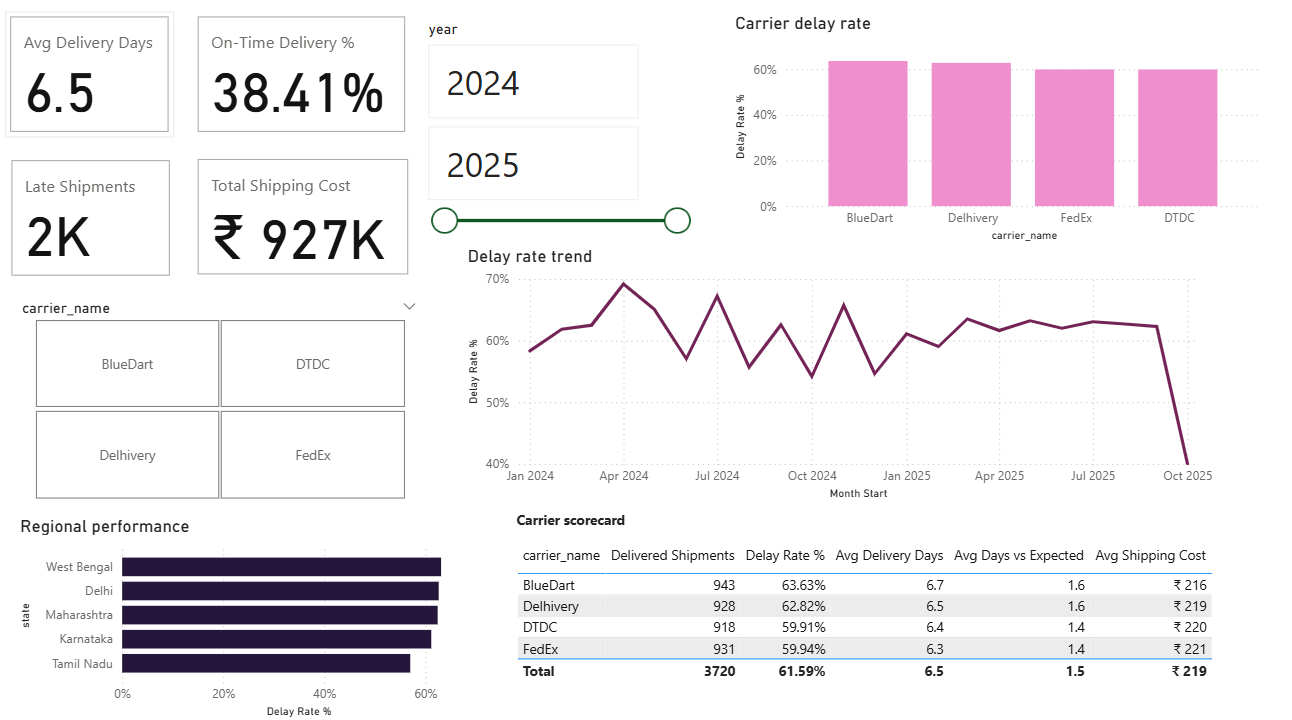
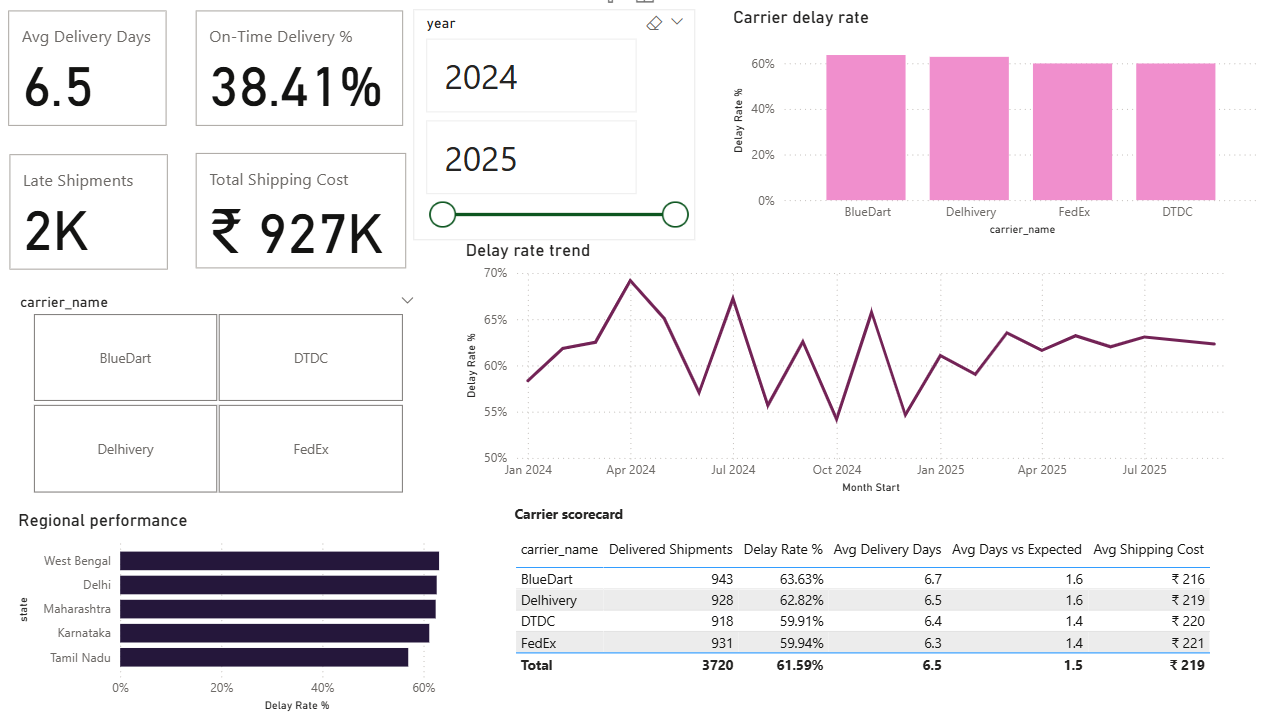
Stage 9A: README, data dictionary, pipeline docs and reproducible setup

diff --git a/README.md b/README.md
@@ -1,0 +1,105 @@
+# SupplyChain360
+
+End-to-end supply chain data engineering and analytics platform. Raw files go in; a tested star schema and a four-page Power BI dashboard come out, orchestrated daily by Airflow.
+
+> The goal is not only to analyze supply-chain data, but to engineer the platform that makes the analysis trustworthy.
+
+## What it does
+
+SupplyChain360 simulates how a company collects data from suppliers, warehouses, inventory systems, customers, orders and carriers. Python lands the raw data in a data lake, PySpark cleans it and quarantines bad records, dbt builds and tests a dimensional model in PostgreSQL, and Power BI turns it into business insight. Everything runs in Docker and is scheduled by Airflow.
+
+## Architecture
+
+```mermaid
+flowchart LR
+    S["CSV and JSON sources"] --> I["Python ingestion"]
+    I --> B[("Bronze<br/>raw Parquet in MinIO")]
+    B --> P["PySpark<br/>clean, dedupe, validate"]
+    P --> SV[("Silver<br/>clean Parquet")]
+    P --> Q[("Quarantine<br/>rejected rows")]
+    SV --> PG[("PostgreSQL<br/>silver schema")]
+    PG --> D["dbt<br/>staging, intermediate, gold"]
+    D --> G[("Gold star schema")]
+    D --> A["Alerts and<br/>quality scorecard"]
+    G --> BI["Power BI dashboard"]
+    G --> NB["Jupyter analysis"]
+```
+
+Airflow runs the flow every day at 06:00 UTC:
+`ingest_to_bronze → bronze_to_silver → silver_to_postgres → quality_to_postgres → dbt_build → alert_summary → dbt_docs`
+
+## Tech stack
+
+| Component | Technology |
+|---|---|
+| Language | Python |
+| Orchestration | Apache Airflow 3 |
+| Processing | PySpark 3.5 (local mode) |
+| Data lake | MinIO (S3 compatible), Parquet |
+| Warehouse | PostgreSQL 16, star schema |
+| Transformation and tests | dbt Core 1.11 |
+| Analysis | Jupyter Notebook |
+| Visualization | Power BI |
+| Containers | Docker Compose |
+
+## Dashboard
+
+![Executive overview](docs/dashboard_executive.png)
+![Inventory and warehouse](docs/dashboard_inventory.png)
+![Logistics](docs/dashboard_logistics.png)
+![Supplier performance](docs/dashboard_supplier.png)
+
+## Results from the sample data
+
+- 4,570 completed or open orders, 500 customers and ₹49.68M revenue (cancelled orders excluded)
+- On-time delivery of 38.4%; average delivery takes 6.5 days
+- 66 low-stock alerts, one stockout, and 7 suppliers rated below the 3.5 threshold
+- 35 bad records quarantined and 20 duplicate orders removed, with every row reconciled
+
+## Data quality
+
+Bad data is caught at three levels and never silently dropped:
+
+1. **Spark** validates each table. Duplicates are removed and counted. Invalid rows (missing customer, negative quantity, delivery before shipment) go to quarantine with the failed rule attached, so one bad row never blocks 5,000 good ones.
+2. **dbt** runs 70+ tests: unique, not null, relationships, accepted values, business rules and a row-count reconciliation (raw = duplicates + silver + quarantine). Known problems, such as order lines of quarantined orders, are warnings; lost rows fail the build.
+3. **Airflow** retries failed tasks twice and records any final failure in `quality.pipeline_failures`.
+
+Business alerts (low stock, late delivery, weak suppliers) are dbt models in the `alerts` schema. Thresholds live in `dbt/dbt_project.yml`.
+
+
+## Repository layout
+
+```
+SupplyChain360/
+├── airflow/dags/        the daily pipeline DAG
+├── data/                sample data generator
+├── dbt/                 staging, intermediate, marts, alerts, quality models and tests
+├── docker/              compose file, Airflow image, Postgres setup script
+├── docs/                data dictionary, pipeline guide, dashboard screenshots
+├── ingestion/           Python ingestion into the Bronze layer
+├── notebooks/           business analysis in Jupyter
+├── quality/validation/  alert summary script
+├── spark/               PySpark jobs and shared helpers
+├── warehouse/           hand-built star schema SQL (reference version)
+└── dashboard/           Power BI file
+```
+
+## Design decisions and trade-offs
+
+- **Spark in local mode** inside the Airflow container keeps the whole platform runnable on an 8 GB laptop. The same code moves to a cluster by changing the master URL.
+- **Spark cleans files, dbt models the warehouse.** Each tool does what it is best at.
+- **Idempotent jobs.** Every step overwrites its own output, so retries and reruns are safe.
+- **MinIO via a mirror image.** MinIO's official image is no longer published on Docker Hub, so the project uses a mirror of its last release. Moving to AWS S3 means changing the endpoint and credentials.
+- **Postgres published on port 5433** so it never collides with a Postgres installed on the host.
+- **Hash surrogate keys** (md5 of the business key), so dimensions and facts agree without lookups.
+
+## Known limitations
+
+- The data is generated, so groups differ only slightly (for example, carriers).
+- Profit in `fact_sales` is revenue minus product cost. Shipping cost is not allocated to order lines.
+- Batch only. Power BI is an Import snapshot, so click **Refresh** after a pipeline run.
+
+## Documentation
+
+- [Data dictionary](docs/data_dictionary.md)
+- [Pipeline documentation](docs/pipeline_documentation.md)

diff --git a/pipeline_documentation.md b/pipeline_documentation.md
@@ -1,0 +1,64 @@
+# Pipeline documentation
+
+## Daily flow
+
+The `supplychain360_pipeline` DAG runs at 06:00 UTC. Each task runs one script. Tasks retry twice, one minute apart (`dbt_build` once), and a task that fails for good is recorded in `quality.pipeline_failures`.
+
+| Task | Script | What it does |
+|---|---|---|
+| ingest_to_bronze | `ingestion/ingest_to_bronze.py` | Reads CSV and JSON files, keeps every column as text, adds `_source_file`, `_ingested_at`, `_batch_id`, and writes Parquet to Bronze. |
+| bronze_to_silver | `spark/jobs/bronze_to_silver.py` | Casts types, removes duplicates, applies validation rules, writes good rows to Silver and bad rows to quarantine, and saves run statistics. |
+| silver_to_postgres | `spark/jobs/silver_to_postgres.py` | Loads the Silver tables into the `silver` schema. |
+| quality_to_postgres | `spark/jobs/quality_to_postgres.py` | Loads quarantined rows and run statistics into Postgres. |
+| dbt_build | `dbt build` | Builds staging, intermediate, gold, quality and alerts models and runs every test. |
+| alert_summary | `quality/validation/alert_summary.py` | Prints alert counts by type and severity in the task log. |
+| dbt_docs | `dbt docs generate` | Refreshes the documentation site. |
+
+## Layers
+
+| Layer | Location | Format |
+|---|---|---|
+| Bronze | MinIO `supplychain-data/bronze/<table>/ingest_date=<date>/` | Parquet, all text |
+| Silver | MinIO `silver/<table>/` and Postgres `silver` | Parquet and tables, typed |
+| Quarantine | MinIO `quarantine/<table>/` and Postgres `quarantine.rejected_records` | Rejected rows with reasons |
+| Staging and intermediate | Postgres `staging`, `intermediate` | dbt views |
+| Gold | Postgres `gold` | dbt tables (star schema) |
+| Alerts and quality | Postgres `alerts`, `quality` | dbt tables |
+
+## Data quality controls
+
+| Where | Check | On failure |
+|---|---|---|
+| Spark | Required IDs not null, quantity above 0, money not negative, rating 0 to 5, delivery not before shipping | Row quarantined with the failed rule |
+| Spark | Duplicates by business key | Removed and counted |
+| dbt | Unique, not null, relationships, accepted values | Build fails |
+| dbt | Orphan order lines and shipments (parent order quarantined) | Warning |
+| dbt | Row counts reconcile (raw = duplicates + silver + quarantine) | Build fails |
+| dbt | Order totals match their lines | Warning |
+| Airflow | Task fails after retries | Recorded in `quality.pipeline_failures` |
+
+## Idempotency
+
+Every step overwrites its own output: Bronze files are keyed by ingest date, Silver and quarantine are overwritten, Postgres loads truncate and reload, and dbt rebuilds its tables. Running any task twice gives the same result as once, so retries and reruns are safe.
+
+## Operations
+
+| Task | Command |
+|---|---|
+| Start everything | `docker compose --env-file .env -f docker/docker-compose.yml up -d` |
+| Stop (data is kept) | `docker compose --env-file .env -f docker/docker-compose.yml stop` |
+| Recover a failed run | Fix the cause, then in the Airflow UI click the red task and choose **Clear Task** with **Downstream** ticked |
+| Rebuild only the models | `run_dbt.bat build` |
+| Change an alert threshold | Edit `vars` in `dbt/dbt_project.yml`, then run `run_dbt.bat build --select path:models/alerts` |
+| Refresh the dashboard | Power BI **Home → Refresh** (Postgres must be running) |
+
+## Troubleshooting
+
+| Symptom | Cause and fix |
+|---|---|
+| `apt-get` fails with "Not live until" | The Windows clock is wrong. Turn on **Set time automatically**, then run `wsl --shutdown` and restart Docker. |
+| `password authentication failed` from Spark | The password stored in the volume differs from `.env`. Run `ALTER USER sc360 WITH PASSWORD 'sc360pass';`. |
+| Tools reach the wrong Postgres | A second Postgres is using port 5432. This project publishes on 5433. |
+| `pull access denied for minio/minio` | The official image was removed from Docker Hub. Use the mirror image in the compose file. |
+| dbt docs show "unable to load manifest" | Serve the folder with `python -m http.server` instead of opening the file directly. |
+| Power BI "Cannot find table" | Tables are loaded as `gold dim_date` and so on. Rename them to the plain names. |

diff --git a/data_dictionary.md b/data_dictionary.md
@@ -1,0 +1,57 @@
+# Data dictionary
+
+All business tables live in the `gold` schema of the `supplychain_dw` database. Keys named `*_key` are surrogate keys: the md5 hash of the business ID, so the same ID always produces the same key.
+
+## Business definitions
+
+| Term | Definition |
+|---|---|
+| Net revenue | `quantity × unit_price × (1 − discount)` per order line. Dashboard totals exclude cancelled orders. |
+| Profit | Net revenue minus `quantity × unit_cost`. Shipping cost is not allocated to order lines. |
+| Delivery days | Actual delivery date minus shipping date. |
+| Delayed shipment | Actual delivery date is later than the expected delivery date. Not set until delivered. |
+| Low stock | `stock_quantity < reorder_level`. A stockout is `stock_quantity = 0`. |
+| Over-utilized warehouse | `current_utilization > 1.0` (above 100% of capacity). |
+
+## Dimensions
+
+**dim_customer** (one row per customer): `customer_key`, `customer_id`, `customer_name`, `city`, `state`, `country`, `customer_segment` (Consumer, Corporate or Small Business), `registration_date`.
+
+**dim_product** (one row per product): `product_key`, `product_id`, `product_name`, `category`, `sub_category`, `supplier_key`, `unit_cost`, `selling_price`, `unit_margin` (price minus cost), `weight`.
+
+**dim_supplier** (one row per supplier): `supplier_key`, `supplier_id`, `supplier_name`, `supplier_location`, `supplier_category`, `rating` (0 to 5), `lead_time` (days), `contract_start_date`.
+
+**dim_warehouse** (one row per warehouse): `warehouse_key`, `warehouse_id`, `warehouse_name`, `city`, `state`, `capacity` (units), `current_utilization` (1.0 = full), `is_over_utilized`.
+
+**dim_carrier** (one row per carrier): `carrier_key`, `carrier_name`.
+
+**dim_date** (one row per day, 2023 to 2026): `date_key` (YYYYMMDD integer), `full_date`, `year`, `quarter`, `month`, `month_name`, `day`, `day_of_week` (1 = Monday), `day_name`, `is_weekend`.
+
+## Facts
+
+**fact_orders** (one row per order): `order_id`, `customer_key`, `order_date_key`, `order_status` (Delivered, Shipped, Processing or Cancelled), `payment_method`, `total_amount`, `item_count`.
+
+**fact_sales** (one row per order line): `sales_key`, `order_id`, `order_date_key`, `customer_key`, `product_key`, `supplier_key`, `order_status`, `quantity`, `unit_price`, `discount`, `gross_revenue` (before discount), `net_revenue`, `product_cost`, `profit`.
+
+**fact_shipments** (one row per shipment): `shipment_id`, `order_id`, `customer_key`, `warehouse_key`, `carrier_key`, `shipping_date_key`, `expected_delivery_date_key`, `actual_delivery_date_key` (empty until delivered), `shipping_cost`, `delivery_days`, `expected_days`, `is_delayed`, `shipment_status`.
+
+**fact_inventory** (one row per warehouse and product): `inventory_key`, `warehouse_key`, `product_key`, `snapshot_date_key`, `stock_quantity`, `reorder_level`, `is_low_stock`, `stock_gap` (reorder level minus stock; positive means short).
+
+## Alerts (schema `alerts`)
+
+**alerts_all**: `alert_type` (low_stock, shipment_delay or supplier_rating), `severity` (critical, high or warning), `entity_type`, `entity`, `message`, `metric_value`, `threshold`, `generated_at`.
+Detail tables: `alert_low_stock`, `alert_shipment_delays` and `alert_supplier_performance`. Thresholds are the `vars` in `dbt/dbt_project.yml`.
+
+## Data quality (schemas `quality` and `quarantine`)
+
+| Table | Contents |
+|---|---|
+| `quarantine.rejected_records` | Every rejected row: `source_table`, `dq_errors` (failed rules), `record_json` (original record), `batch_id`, `ingest_date`. |
+| `quality.run_stats` | Per run and table: `raw_rows`, `duplicates_removed`, `silver_rows`, `quarantined_rows`. |
+| `quality.dq_scorecard` | Latest run per table, with `valid_pct` and `reconciles` (true when raw = duplicates + silver + quarantine). |
+| `quality.dq_quarantine_summary` | Rejected rows per table and failed rule. |
+| `quality.pipeline_failures` | One row per Airflow task that failed after all retries. |
+
+## Other layers
+
+`silver.*` holds the cleaned, typed copies of the eight source tables. `staging.stg_*` are one-to-one dbt views over silver, with renames only. `intermediate.int_*` hold joins and the revenue, cost and profit logic.
